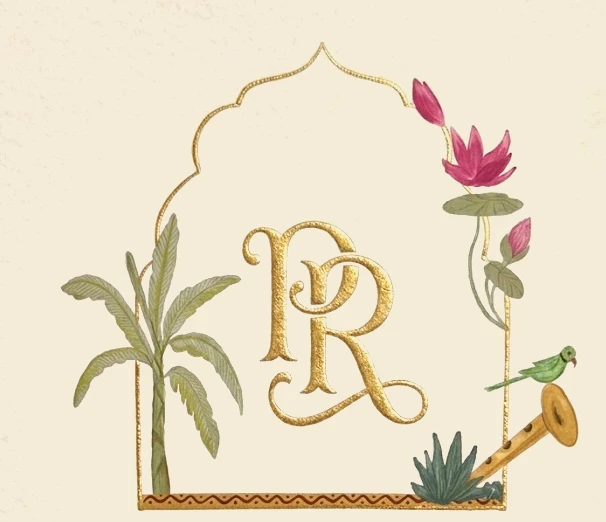
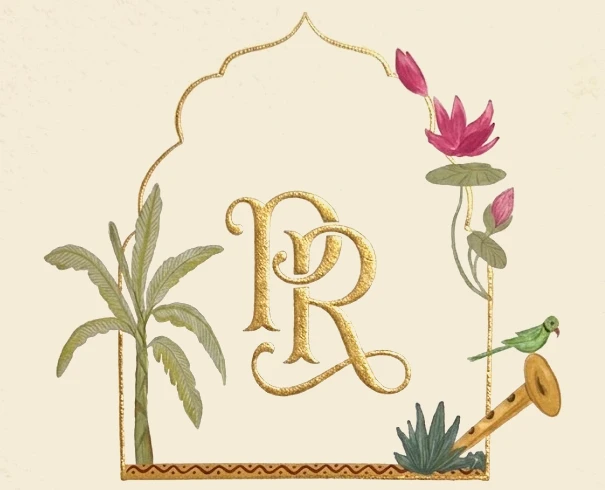
Centre the monogram artwork within its frame
The page was centring the <img> correctly; the artwork was not centred
inside the image. Measured against the page colour, the painted content
ran x 173-690 in the source, leaving 61px of blank paper on one side
and 27px on the other — so the mark sat about 17px right of the frame
centre and read as misaligned against the centred text below.

Crop bounds moved from left 112 / width 606 to left 129 / width 605,
giving margins of 44 and 43px. The ink centre now lands on 302.5 in a
605px frame — dead centre. Vertical padding tightened at the same time
(42/11 top and bottom was visibly bottom-heavy, now 12/9), which is why
the height changes 522 -> 490; both call sites updated to match.

Changed region(s): [[0.0595, 0.0306, 0.9521, 0.9796], [0.357, 0.0918, 0.5058, 0.2143]]

diff --git a/app/page.tsx b/app/page.tsx
@@ -48,8 +48,8 @@ export default function Page() {
             <Image
               src="/pr-monogram.webp"
               alt=""
-              width={606}
-              height={522}
+              width={605}
+              height={490}
               priority
               sizes="(min-width: 640px) 320px, 240px"
               className="animate-fade-up fade-d1 mb-6 h-auto w-[240px] sm:w-[320px]"
@@ -289,8 +289,8 @@ export default function Page() {
             <Image
               src="/pr-monogram.webp"
               alt=""
-              width={606}
-              height={522}
+              width={605}
+              height={490}
               sizes="180px"
               className="mx-auto h-auto w-[180px]"
             />
